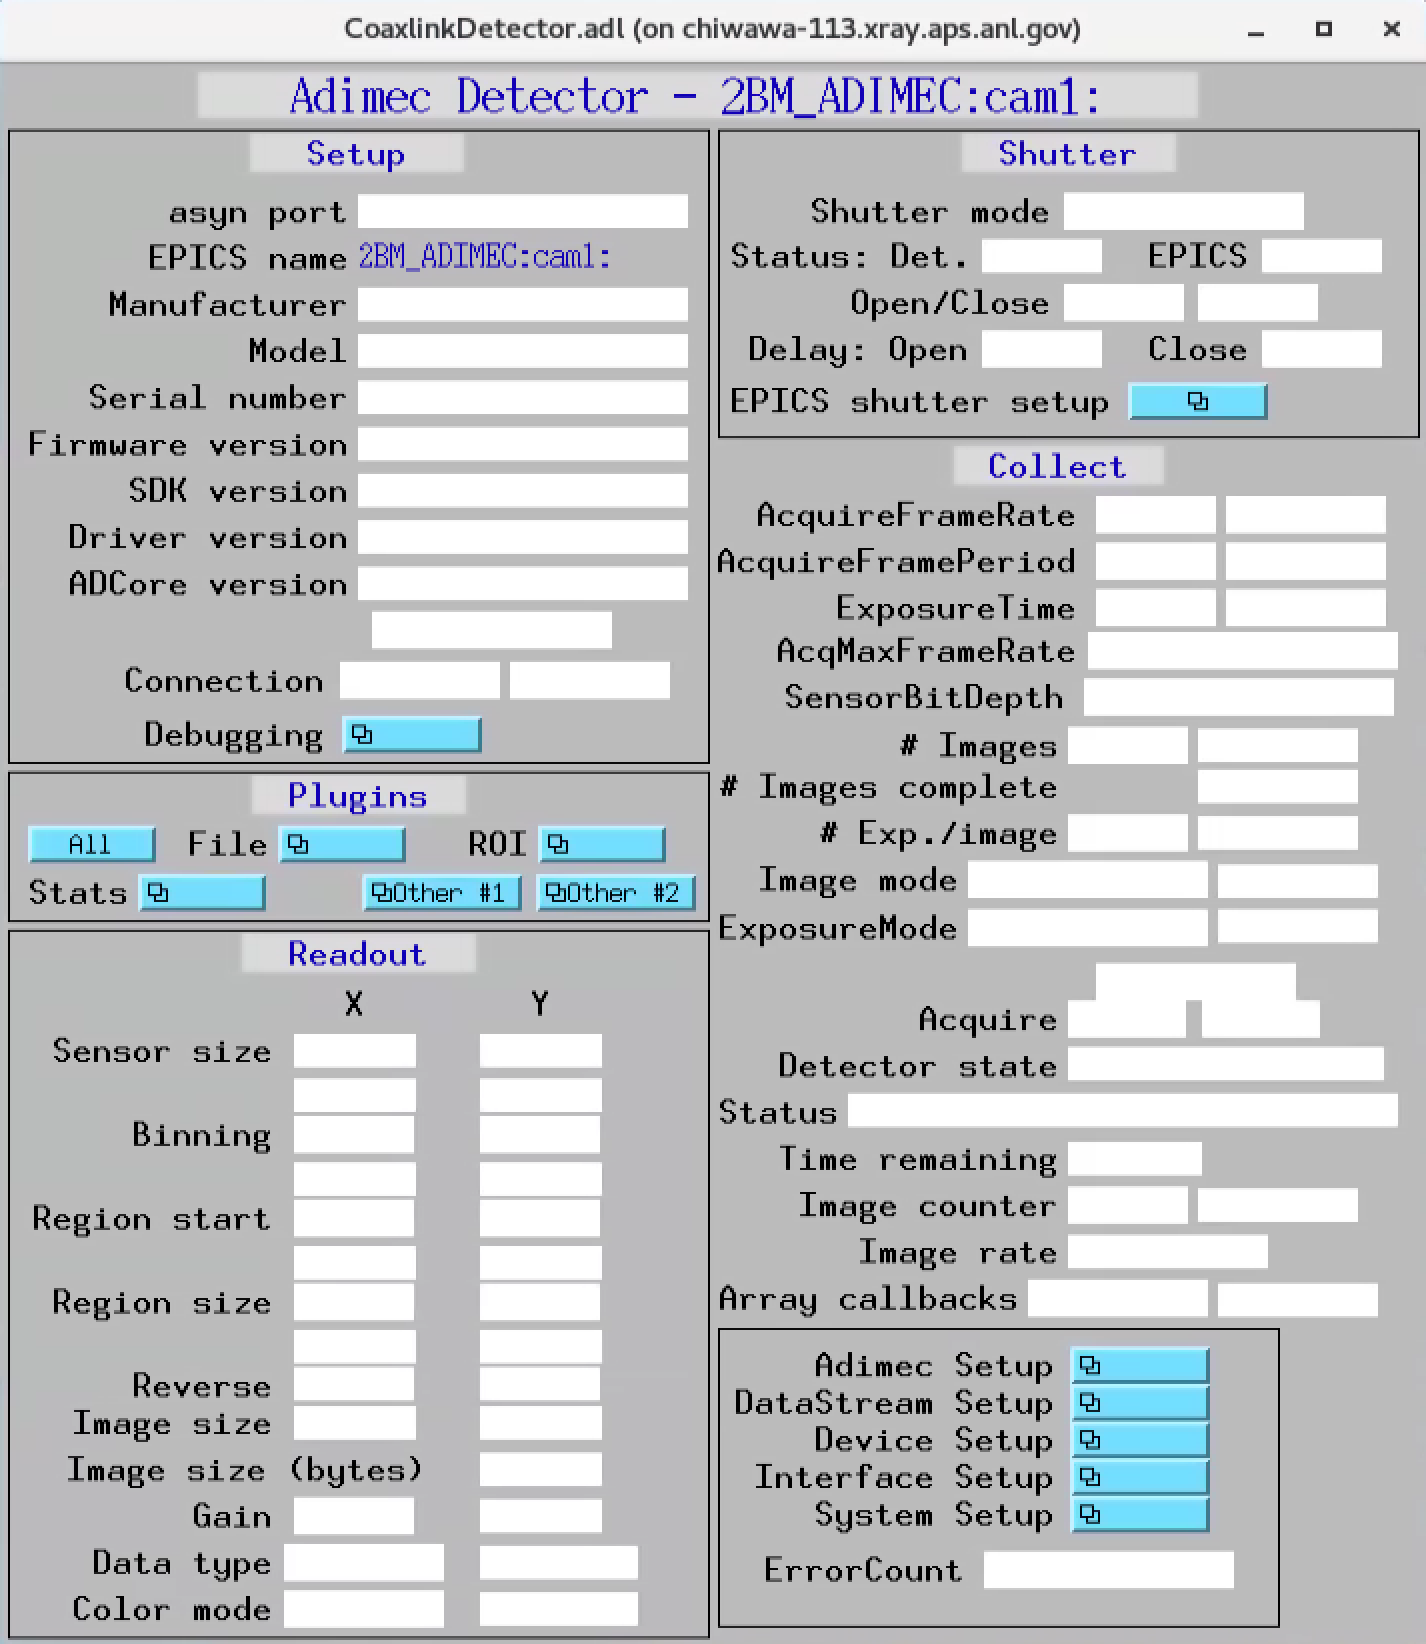
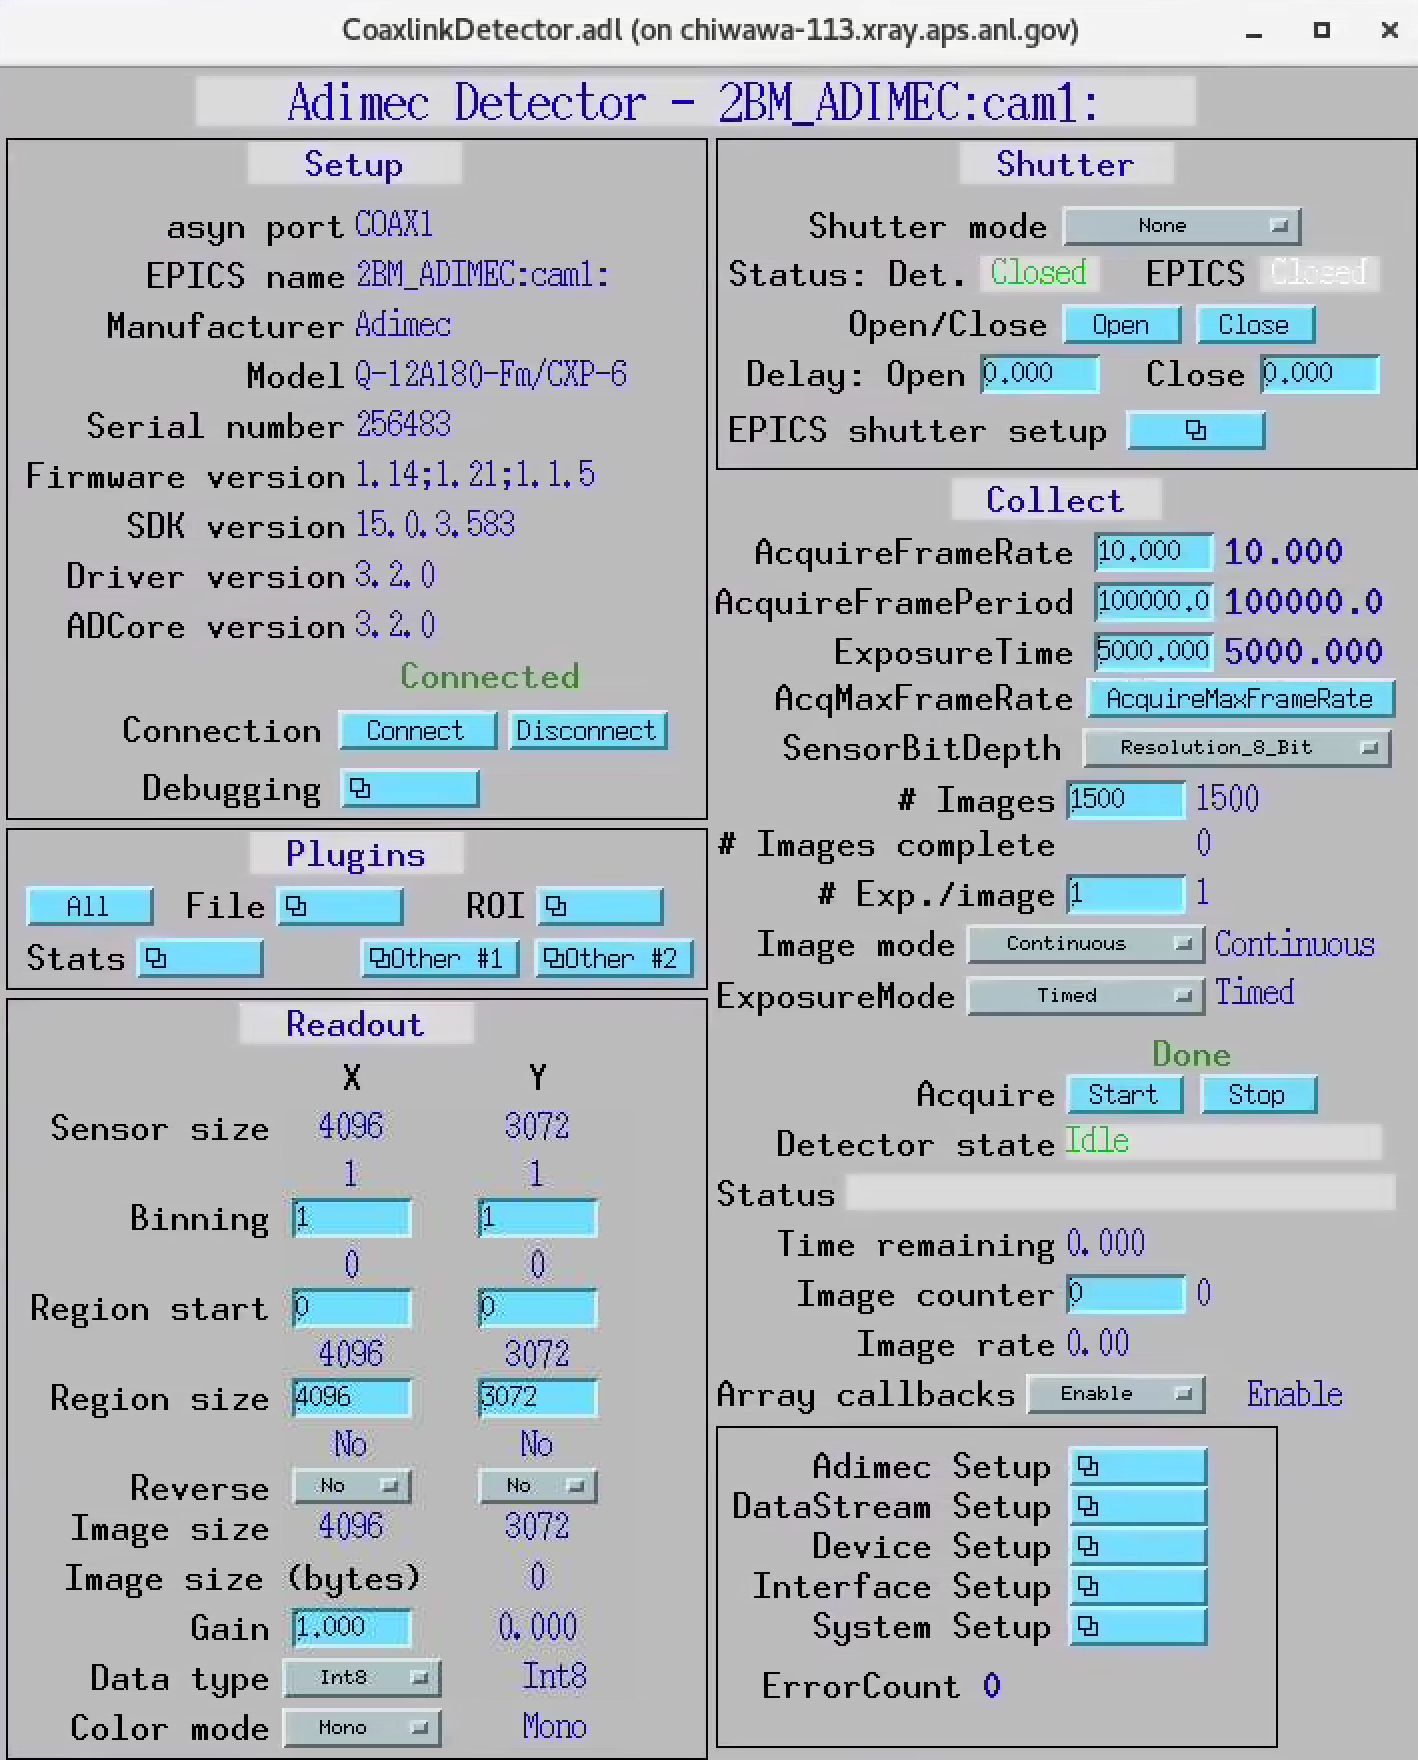
adimec update

diff --git a/docs/source/user/item_003.rst b/docs/source/user/item_003.rst
@@ -174,21 +174,26 @@ Adimec
 To use the Quartz quad CoaXPress Q-12A180 CMV12000 installed at 2-BM-A and connected to chiwawa-113, 
 start the Adimec areadetector main control screen::
 
+::
+
+   [user2bmb@chiwawa-113]$ cd /local/epics/areaDetector-3-2/ADCoaxLink/iocs/coaxLinkIOC/iocBoot/iocCoaxLink
+   [user2bmb@chiwawa-113]$ ./Start_Adimec_Display.sh
+   [user2bmb@chiwawa-113]$ ./Start_Adimec.sh
+
+
+.. image:: ../img/adimec.png 
+   :width: 720px
+   :align: center
+   :alt: tomo_user
+
+New version (not working yet)::
+
   [user2bmb@chiwawa-113]$ cd /net/s2dserv/xorApps/PreBuilts/areaDetector-R3-10/ADCoaxLink/iocs/coaxLinkIOC/iocBoot/iocCoaxLink/softioc/Adimec.sh
   [user2bmb@chiwawa-113]$ ./Adimec.sh
     Usage: Adimec.sh {start|stop|restart|status|console|run|medm|caqtdm}
     Additional options:
     Adimec.sh start {screen|procServ|ps|shell}
 
-Old version::
-
-   [user2bmb@chiwawa-113]$ cd /local/epics/areaDetector-3-2/ADCoaxLink/iocs/coaxLinkIOC/iocBoot/iocCoaxLink
-   [user2bmb@chiwawa-113]$ ./Start_Adimec_Display.sh
-
-.. image:: ../img/adimec.png 
-   :width: 720px
-   :align: center
-   :alt: tomo_user
 
 Startup
 ~~~~~~~
